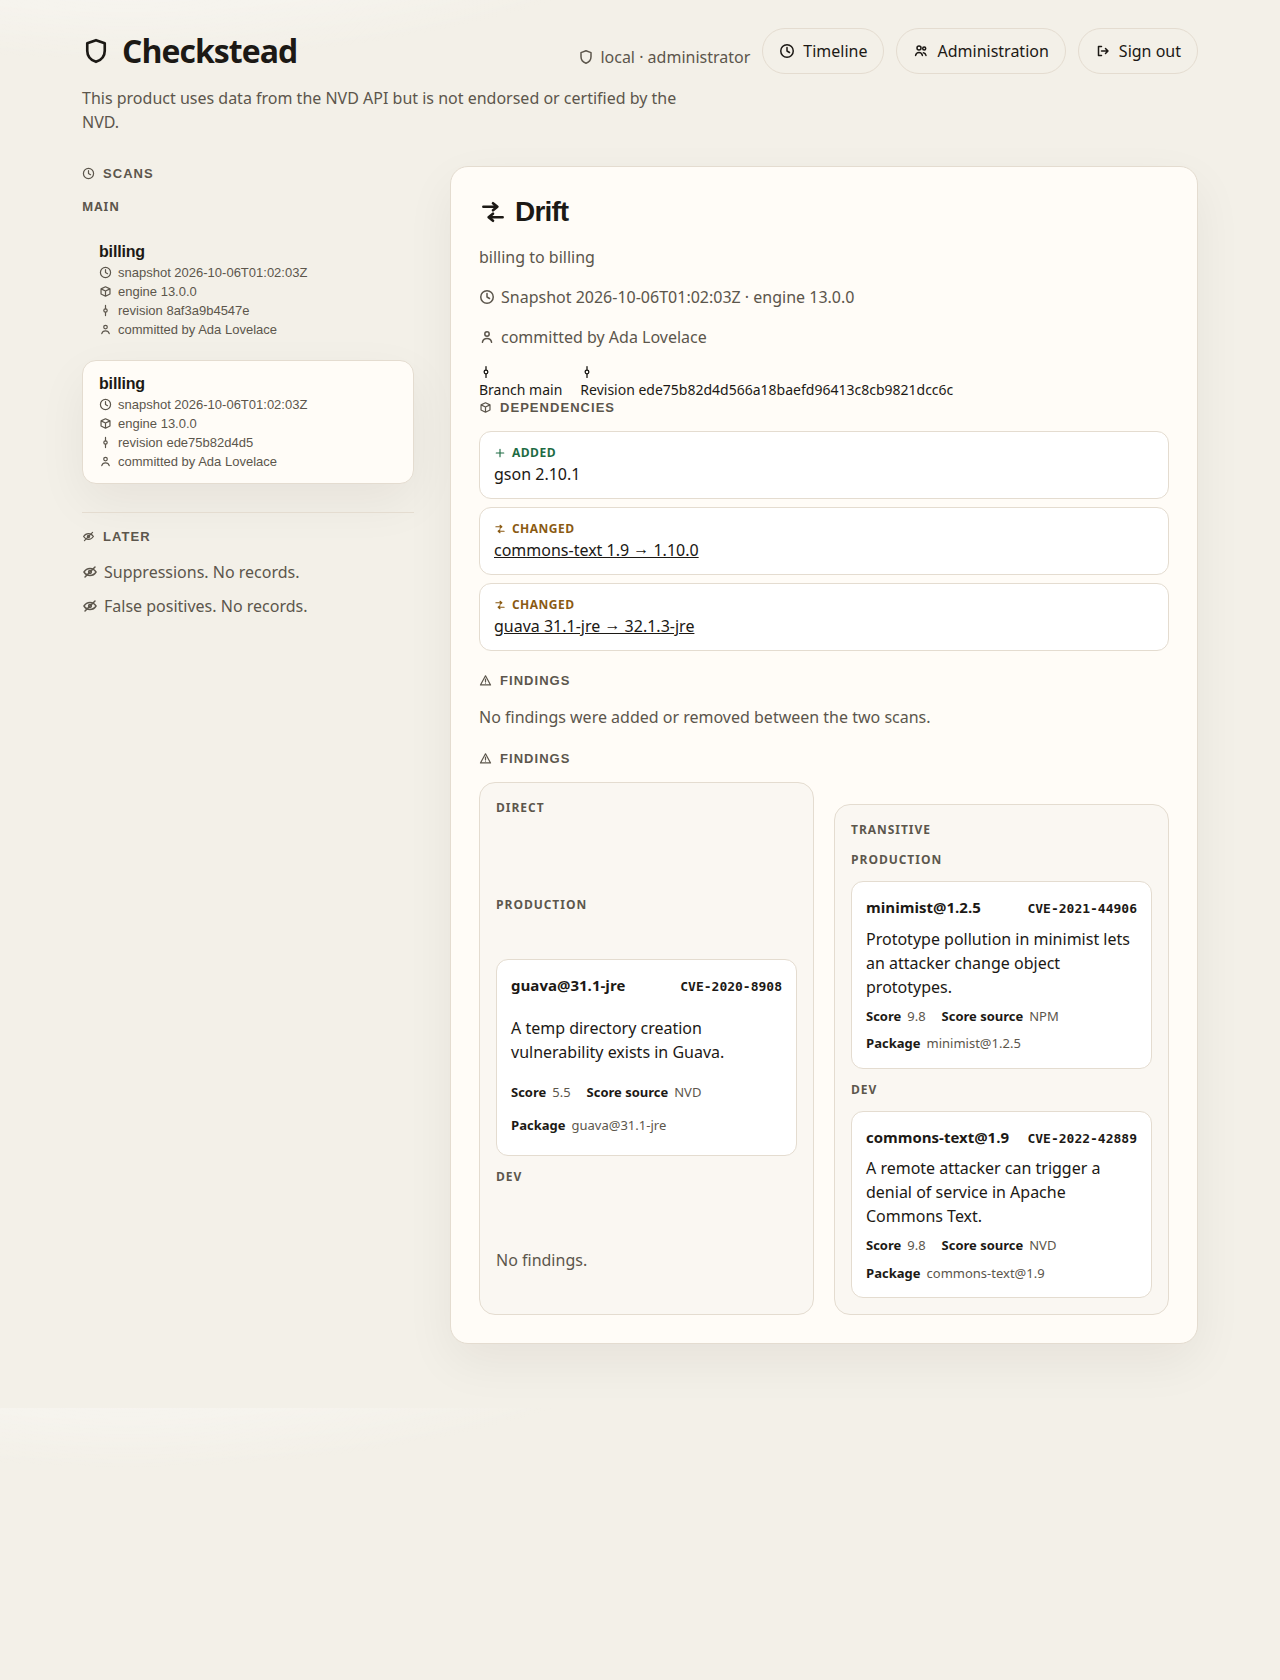
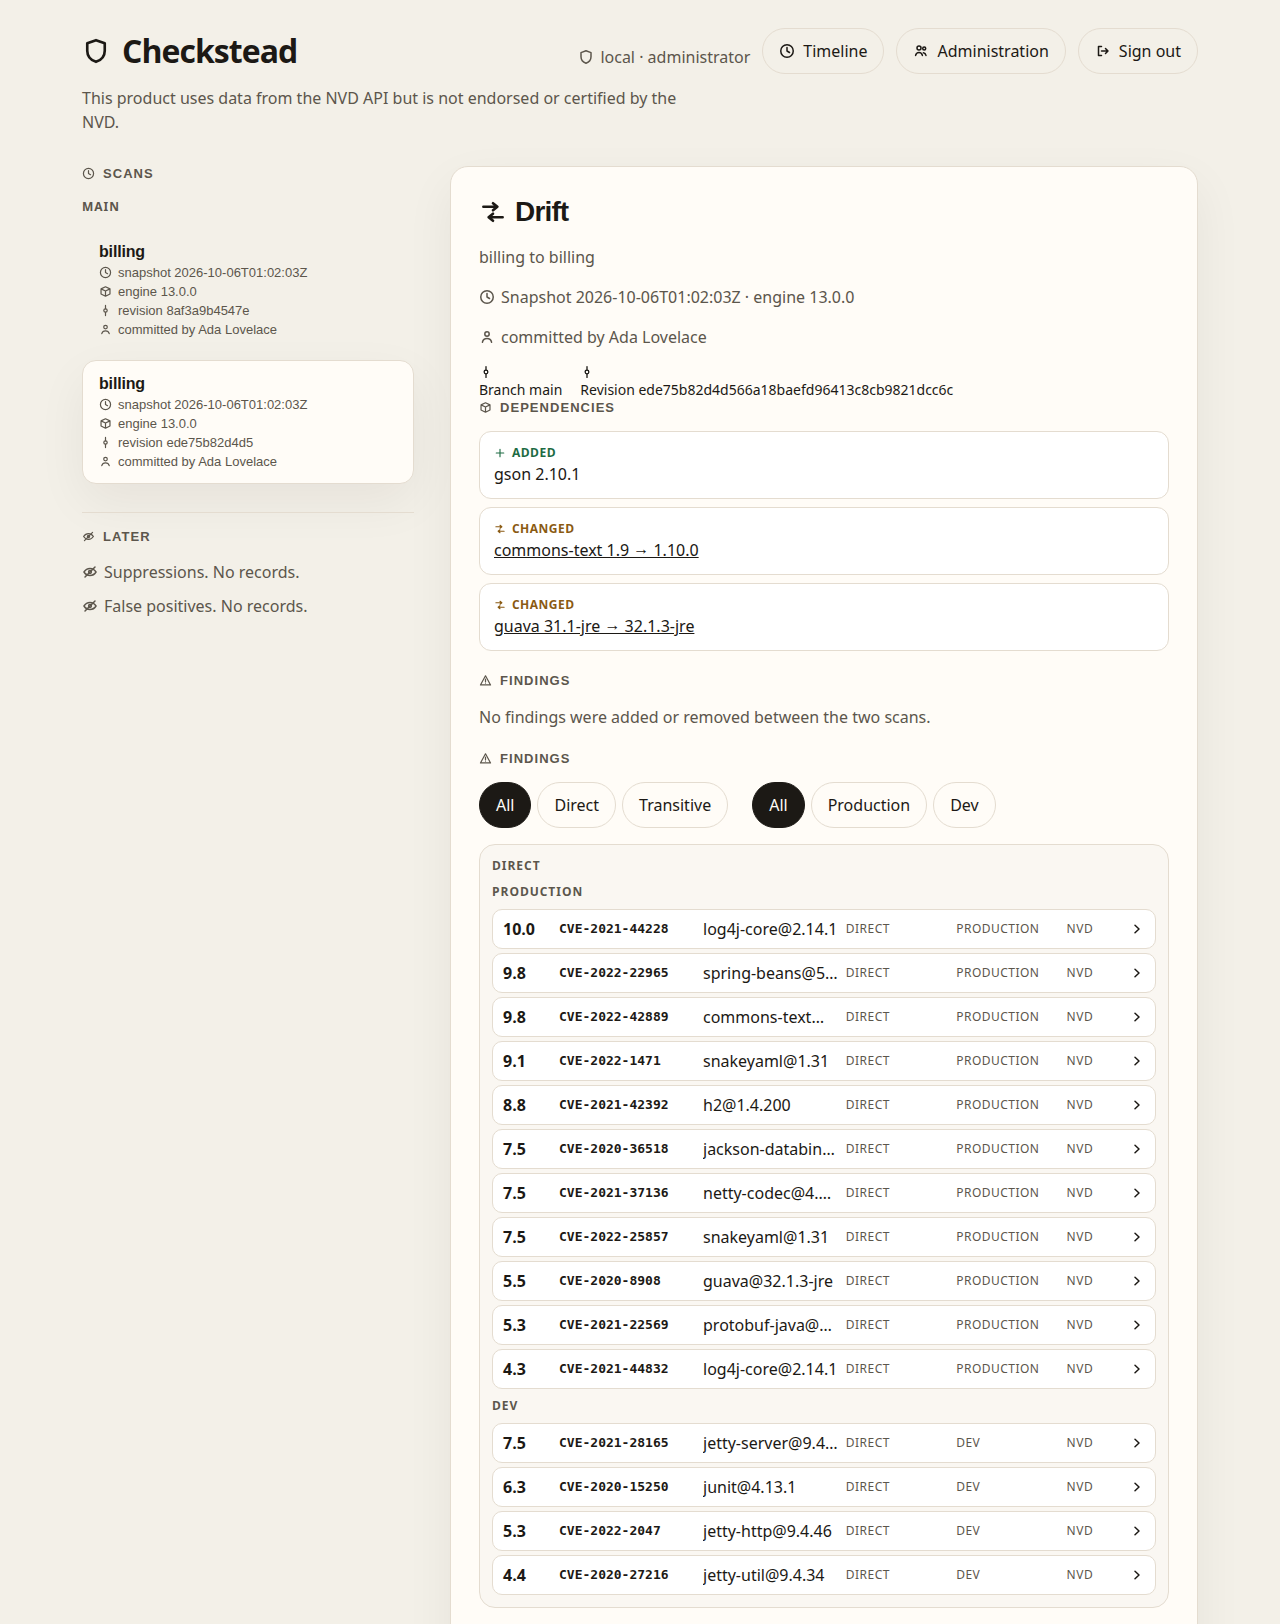
List findings as score-sorted rows instead of open cards.
Each finding is one row with its score, id, package, relationship, scope, and score source. The description stays closed until the row is opened, and the direct, transitive, production, and dev groups can be narrowed without being dropped.

diff --git a/src/checkstead/ui_page.html b/src/checkstead/ui_page.html
@@ -97,21 +97,41 @@
     .row { border: 1px solid var(--line); border-radius: 12px; padding: 12px 14px; background: var(--card); }
     .identity { display: flex; flex-wrap: wrap; gap: 10px 18px; margin: 8px 0 0; }
     .identity span { color: var(--ink); font-size: 14px; }
-    .finding-groups { display: grid; grid-template-columns: 1fr 1fr; gap: 20px; }
-    .finding-relationship, .finding-scope { display: grid; gap: 12px; }
-    .finding-relationship { padding: 16px; border: 1px solid var(--line); border-radius: 16px; background: #faf7f2; }
+    .finding-filters { display: flex; flex-wrap: wrap; gap: 16px 24px; margin: 0 0 16px; }
+    .finding-filters div { display: flex; flex-wrap: wrap; gap: 6px; }
+    .finding-filters button[aria-pressed="true"] { background: var(--ink); color: var(--panel); border-color: var(--ink); }
+    .finding-groups { display: grid; gap: 16px; }
+    .finding-relationship, .finding-scope { display: grid; gap: 8px; }
+    .finding-relationship { padding: 12px; border: 1px solid var(--line); border-radius: 16px; background: #faf7f2; }
     .finding-relationship h3, .finding-scope h4 {
       margin: 0; font-size: 12px; letter-spacing: 0.08em; text-transform: uppercase; color: var(--muted);
     }
-    .finding { display: grid; gap: 8px; padding: 14px; border-radius: 12px; background: var(--card); border: 1px solid var(--line); }
-    .finding-head { display: flex; justify-content: space-between; gap: 12px; align-items: baseline; }
-    .finding-head strong { font-size: 15px; }
+    .finding-list { display: grid; gap: 4px; }
+    .finding-list li + li { margin-top: 0; }
+    .finding-row { border: 1px solid var(--line); border-radius: 10px; background: var(--card); }
+    .finding-row > button {
+      display: grid;
+      grid-template-columns: 3rem minmax(8.5rem, 1.05fr) minmax(8rem, 1.5fr) 6.4rem 6.4rem minmax(3.4rem, 0.55fr) 1rem;
+      gap: 8px;
+      align-items: center;
+      width: 100%;
+      padding: 7px 10px;
+      border: 0;
+      border-radius: 10px;
+      background: transparent;
+      color: inherit;
+      font: inherit;
+      text-align: left;
+      cursor: pointer;
+    }
+    .finding-row > button:focus-visible { outline: 2px solid var(--focus); outline-offset: -2px; }
+    .finding-score { font-variant-numeric: tabular-nums; font-weight: 650; }
+    .vuln-id, .finding-package { overflow: hidden; text-overflow: ellipsis; white-space: nowrap; }
     .vuln-id { font: 600 13px/1.3 ui-monospace, monospace; }
-    .finding-text { margin: 0; }
-    .finding-meta { display: flex; flex-wrap: wrap; gap: 8px 16px; margin: 0; color: var(--muted); font-size: 13px; }
-    .finding-meta div { display: flex; gap: 6px; }
-    .finding-meta dt, .finding-meta dd { margin: 0; }
-    .finding-meta dt { font-weight: 650; color: var(--ink); }
+    .finding-kind, .finding-source { font-size: 12px; letter-spacing: 0.04em; text-transform: uppercase; color: var(--muted); }
+    .finding-chevron { justify-self: end; transition: transform 120ms ease; }
+    .finding-row.open .finding-chevron { transform: rotate(90deg); }
+    .finding-text { margin: 0; padding: 0 12px 10px; }
     .tag { font-size: 12px; font-weight: 650; letter-spacing: 0.04em; text-transform: uppercase; }
     .added .tag { color: var(--added); }
     .removed .tag { color: var(--removed); }
@@ -151,7 +171,8 @@
     td button { margin-right: 8px; }
     #gate, #admin { max-width: 1180px; margin: 0 auto; padding: 8px 32px 64px; }
     @media (max-width: 800px) {
-      main, .finding-groups { grid-template-columns: 1fr; }
+      main { grid-template-columns: 1fr; }
+      .finding-row > button { grid-template-columns: 3rem minmax(7rem, 1fr) minmax(6rem, 1.2fr) auto auto auto 1rem; }
       header, main, #gate, #admin { padding-left: 16px; padding-right: 16px; }
       .timeline { padding-right: 0; }
     }
@@ -177,6 +198,7 @@
     <symbol id="i-github" viewBox="0 0 16 16"><path fill="currentColor" d="M8 0C3.58 0 0 3.58 0 8c0 3.54 2.29 6.53 5.47 7.59.4.07.55-.17.55-.38 0-.19-.01-.82-.01-1.49-2.01.37-2.53-.49-2.69-.94-.09-.23-.48-.94-.82-1.13-.28-.15-.68-.52-.01-.53.63-.01 1.08.58 1.23.82.72 1.21 1.87.87 2.33.66.07-.52.28-.87.51-1.07-1.78-.2-3.64-.89-3.64-3.95 0-.87.31-1.59.82-2.15-.08-.2-.36-1.02.08-2.12 0 0 .67-.21 2.2.82.64-.18 1.32-.27 2-.27.68 0 1.36.09 2 .27 1.53-1.04 2.2-.82 2.2-.82.44 1.1.16 1.92.08 2.12.51.56.82 1.27.82 2.15 0 3.07-1.87 3.75-3.65 3.95.29.25.54.73.54 1.48 0 1.07-.01 1.93-.01 2.2 0 .21.15.46.55.38A8.013 8.013 0 0 0 16 8c0-4.42-3.58-8-8-8z"/></symbol>
     <symbol id="i-azure-devops" viewBox="0 0 16 16"><path fill="currentColor" d="M1 3.2h4.4L8 8 5.4 12.8H1L3.8 8 1 3.2zm14 0L12.2 8 15 12.8h-4.4L8 8l2.6-4.8H15z"/></symbol>
     <symbol id="i-eye-off" viewBox="0 0 16 16"><path d="M2 8s2.2-3.5 6-3.5S14 8 14 8s-2.2 3.5-6 3.5S2 8 2 8z" fill="none" stroke="currentColor" stroke-width="1.5"/><circle cx="8" cy="8" r="1.4" fill="none" stroke="currentColor" stroke-width="1.5"/><path d="M3 13 13 3" fill="none" stroke="currentColor" stroke-width="1.5" stroke-linecap="round"/></symbol>
+    <symbol id="i-chevron" viewBox="0 0 16 16"><path d="M6 4.2 10 8 6 11.8" fill="none" stroke="currentColor" stroke-width="1.5" stroke-linecap="round" stroke-linejoin="round"/></symbol>
   </svg>
   <header>
     <div class="bar">
@@ -245,7 +267,14 @@
     <article class="panel" id="detail" aria-live="polite"></article>
   </main>
   <script>
-    const state = { history: null, selected: null, openKey: null };
+    const state = {
+      history: null,
+      selected: null,
+      openKey: null,
+      openFinding: null,
+      findingRelationship: "",
+      findingScope: "",
+    };
 
     function text(tag, value, className) {
       const node = document.createElement(tag);
@@ -331,6 +360,7 @@
           button.addEventListener("click", () => {
             state.selected = scan.id;
             state.openKey = null;
+            state.openFinding = null;
             render();
           });
           section.append(button);
@@ -443,48 +473,110 @@
       return parts.filter(Boolean).join(" ");
     }
 
-    function findingCard(item) {
-      const card = document.createElement("article");
-      card.className = "finding";
-      const head = document.createElement("div");
-      head.className = "finding-head";
-      head.append(text("strong", item.package || item.dependency || "Package"));
-      head.append(text("span", item.id || "", "vuln-id"));
-      card.append(head);
-      card.append(text("p", item.description || "No description recorded.", "finding-text"));
-      const meta = document.createElement("div");
-      meta.className = "finding-meta";
-      [
-        ["Score", item.score || "not recorded"],
-        ["Score source", item.scoreSource || "not recorded"],
-        ["Package", item.package || item.dependency || "not recorded"],
-      ].forEach((pair) => {
-        const bit = document.createElement("div");
-        bit.append(text("dt", pair[0]), text("dd", pair[1]));
-        meta.append(bit);
+    function findingRank(item) {
+      const value = Number(item.score);
+      return Number.isFinite(value) ? value : -1;
+    }
+
+    function findingKey(item) {
+      return [item.id, item.package || item.dependency, item.relationship, item.scope].join("\n");
+    }
+
+    function filterGroup(label, options, current, onPick) {
+      const group = document.createElement("div");
+      group.setAttribute("role", "group");
+      group.setAttribute("aria-label", label);
+      options.forEach((option) => {
+        const button = document.createElement("button");
+        button.type = "button";
+        button.className = "quiet";
+        button.textContent = option[1];
+        button.setAttribute("aria-pressed", option[0] === current ? "true" : "false");
+        button.addEventListener("click", () => onPick(option[0]));
+        group.append(button);
       });
-      card.append(meta);
-      return card;
+      return group;
+    }
+
+    function findingFilters() {
+      const bar = document.createElement("div");
+      bar.className = "finding-filters";
+      bar.append(
+        filterGroup("Relationship", [
+          ["", "All"],
+          ["direct", "Direct"],
+          ["transitive", "Transitive"],
+        ], state.findingRelationship, (value) => {
+          state.findingRelationship = value;
+          render();
+        }),
+        filterGroup("Scope", [
+          ["", "All"],
+          ["production", "Production"],
+          ["dev", "Dev"],
+        ], state.findingScope, (value) => {
+          state.findingScope = value;
+          render();
+        })
+      );
+      return bar;
+    }
+
+    function findingRow(item) {
+      const key = findingKey(item);
+      const open = state.openFinding === key;
+      const row = document.createElement("li");
+      row.className = "finding-row" + (open ? " open" : "");
+      const button = document.createElement("button");
+      button.type = "button";
+      button.setAttribute("aria-expanded", open ? "true" : "false");
+      const chevron = icon("chevron");
+      chevron.classList.add("finding-chevron");
+      button.append(
+        text("span", item.score || "—", "finding-score"),
+        text("span", item.id || "—", "vuln-id"),
+        text("span", item.package || item.dependency || "—", "finding-package"),
+        text("span", item.relationship || "direct", "finding-kind"),
+        text("span", item.scope || "production", "finding-kind"),
+        text("span", item.scoreSource || "—", "finding-source"),
+        chevron
+      );
+      button.addEventListener("click", () => {
+        state.openFinding = open ? null : key;
+        render();
+      });
+      row.append(button);
+      if (open) row.append(text("p", item.description || "No description recorded.", "finding-text"));
+      return row;
     }
 
     function findingsSection(findings) {
       const section = document.createElement("section");
       section.append(withIcon("alert", "Findings", "h2"));
+      section.append(findingFilters());
       const groups = document.createElement("div");
       groups.className = "finding-groups";
-      ["direct", "transitive"].forEach((relationship) => {
+      const relationships = state.findingRelationship ? [state.findingRelationship] : ["direct", "transitive"];
+      const scopes = state.findingScope ? [state.findingScope] : ["production", "dev"];
+      relationships.forEach((relationship) => {
         const column = document.createElement("section");
         column.className = "finding-relationship";
         column.append(text("h3", relationship));
-        ["production", "dev"].forEach((scope) => {
+        scopes.forEach((scope) => {
           const block = document.createElement("div");
           block.className = "finding-scope";
           block.append(text("h4", scope));
           const items = (findings || []).filter((item) => {
             return (item.relationship || "direct") === relationship && (item.scope || "production") === scope;
           });
+          items.sort((a, b) => findingRank(b) - findingRank(a) || String(a.id || "").localeCompare(String(b.id || "")));
           if (!items.length) block.append(text("p", "No findings.", "empty"));
-          items.forEach((item) => block.append(findingCard(item)));
+          else {
+            const list = document.createElement("ul");
+            list.className = "finding-list";
+            items.forEach((item) => list.append(findingRow(item)));
+            block.append(list);
+          }
           column.append(block);
         });
         groups.append(column);

diff --git a/tests/test_history.py b/tests/test_history.py
@@ -209,6 +209,13 @@ class HistoryTests(TestCase):
         self.assertIn("scan.branch", page)
         self.assertIn("finding-groups", page)
         self.assertIn("findingsSection", page)
+        self.assertIn("finding-row", page)
+        self.assertIn("finding-filters", page)
+        self.assertIn("function findingRank", page)
+        self.assertIn("findingRank(b) - findingRank(a)", page)
+        self.assertIn('filterGroup("Relationship"', page)
+        self.assertIn('filterGroup("Scope"', page)
+        self.assertIn("state.openFinding === key", page)
         self.assertIn("No findings were added or removed between the two scans.", page)
         self.assertNotIn("No findings in either report.", page)
 

diff --git a/README.md b/README.md
@@ -130,13 +130,13 @@ On localhost, the first person uses **Sign in on this computer**. That button is
 
 ![Sign-in page. Sign in on this computer is enabled. GitHub and Microsoft are inactive.](docs/screenshots/sign-in.png)
 
-The first scan on a branch is the scan view. This one records branch `main`. Direct production shows Guava and the description of the temp-directory issue. Transitive production shows minimist, and transitive dev shows Apache Commons Text. Direct dev has no findings.
+The first scan on a branch is the scan view. This one records branch `main`. Each finding is one row: score, vulnerability id, package, direct or transitive, production or dev, and score source. The rows in each group are sorted by score, highest first. The description stays closed until the row is opened. Direct, transitive, production, and dev stay as groups, and the list can be narrowed to one relationship and one scope.
 
-![Scan of billing on branch main, with descriptions in the direct and transitive groups](docs/screenshots/scan.png)
+![Scan of billing on branch main. Findings are closed rows sorted by score.](docs/screenshots/scan.png)
 
-The next scan on that branch is the drift. The branch is `main`. Guava moved from 31.1-jre to 32.1.3-jre, commons-text moved from 1.9 to 1.10.0, and gson arrived. The drift list says no findings were added or removed between the two scans. The direct and transitive groups under that list still show each description, score, score source, and package.
+The next scan on that branch is the drift. The branch is `main`. Guava moved from 31.1-jre to 32.1.3-jre, commons-text moved from 1.9 to 1.10.0, and gson arrived. The drift list says no findings were added or removed between the two scans. The same row list sits under that line.
 
-![Drift on branch main. The finding groups stay visible under the dependency changes.](docs/screenshots/drift.png)
+![Drift on branch main. The finding rows stay under the dependency changes.](docs/screenshots/drift.png)
 
 The first person to sign in is the administrator. Administration is where that person adds later accounts.
 
@@ -406,7 +406,7 @@ The Action passes `GITHUB_REF_NAME` and `GITHUB_SHA` into the scan. `checkstead.
 
 On a pull request the Action fetches the head commit and the base commit, then scans both trees in one run. Both scans use the same snapshot and `--noupdate`. A finding is introduced only when its package identity and vulnerability id are on the head and absent on the base.
 
-Findings in `checkstead.txt` are separate groups: direct and transitive, and production and dev. Each vulnerability has a `description:` line, plus the score, the score source, and the package. The timeline shows those groups. The SARIF result carries the same description, score, score source, and package.
+Findings in `checkstead.txt` are separate groups: direct and transitive, and production and dev. Each vulnerability has a `description:` line, plus the score, the score source, and the package. The timeline keeps those groups and lists each finding as one row, sorted by score. The description stays closed until the row is opened. The SARIF result carries the same description, score, score source, and package.
 
 ### Pull requests
 
@@ -468,7 +468,7 @@ The two reports already in `ui/scans` are a pair of fixture scans on the same sn
 
 A scan records a revision when you pass `--revision`, and the GitHub Action passes `GITHUB_SHA`. When that revision is a commit git can see, the report also names the author. The sample reports use the commits of the fixture trees. Both were committed by Cursor Agent.
 
-A scan records the git branch of the tree it scanned, the branch you pass with `--branch`, or `GITHUB_REF_NAME` from the Action. The timeline reads `branch:` from `checkstead.txt` and groups scans into one section per branch. Drift is the change from the previous scan on that same branch. A finding's description, score, score source, and package are on the scan, in direct and transitive groups and in production and dev groups.
+A scan records the git branch of the tree it scanned, the branch you pass with `--branch`, or `GITHUB_REF_NAME` from the Action. The timeline reads `branch:` from `checkstead.txt` and groups scans into one section per branch. Drift is the change from the previous scan on that same branch. Each finding is one row in its direct or transitive group and its production or dev group: score, vulnerability id, package, and score source. The description stays closed until the row is opened. The rows are sorted by score, highest first. The list can be narrowed to one relationship and one scope without dropping those groups.
 
 ## Server
 
